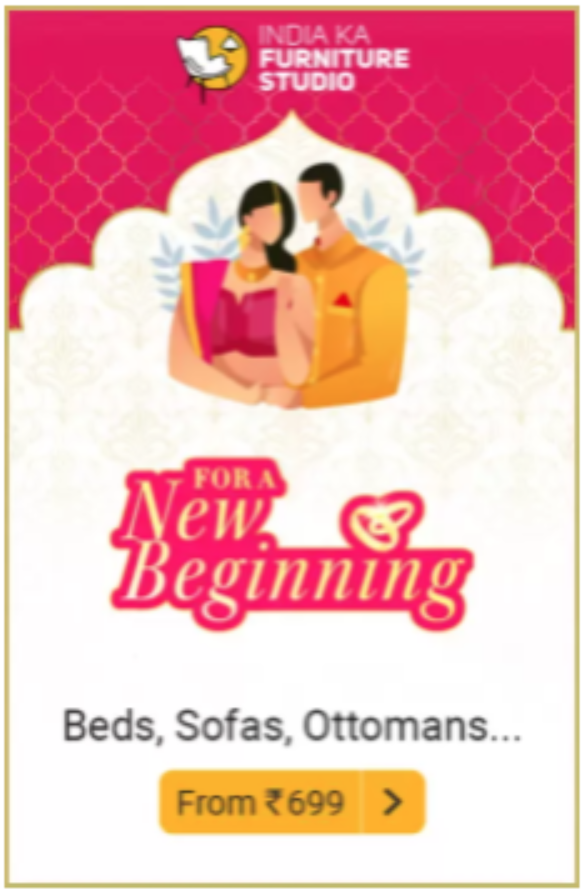
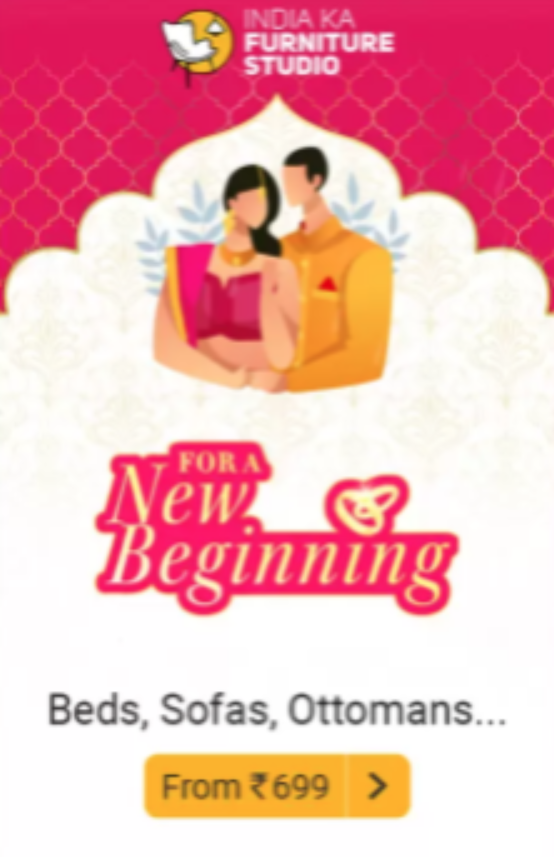
fix: Update the image for special offer card and remove padding from it

Changed region(s): [[0.0, 0.0, 1.0, 1.0], [0.1534, 0.4854, 0.8285, 0.7281], [0.5523, 0.3034, 0.6137, 0.3641]]

diff --git a/index.html b/index.html
@@ -298,7 +298,7 @@
 
                     <!-- Special Offer Card -->
                     <a
-                        class="special-offer d-none d-lg-block p-1"
+                        class="special-offer d-none d-lg-block"
                         href="#"
                         role="button"
                         aria-label="Special Offer"
